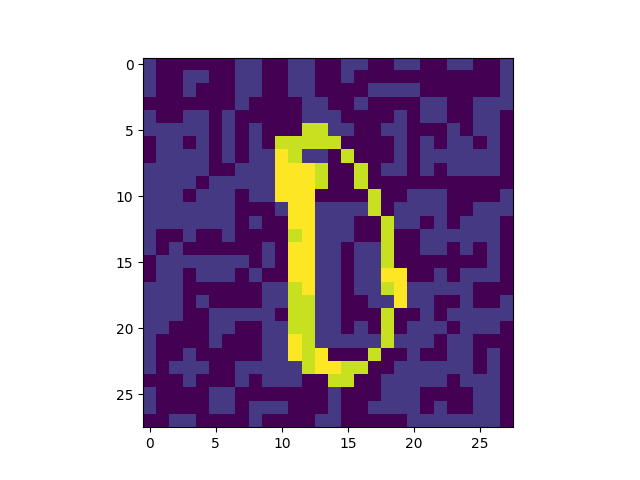
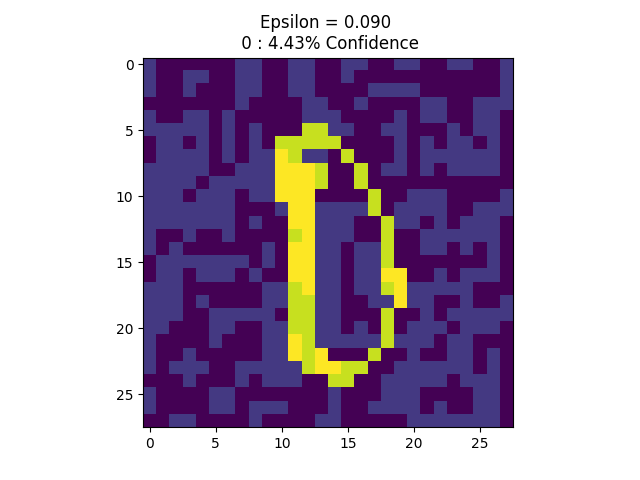
created streamlit app

Changed region(s): [[0.375, 0.0312, 0.6562, 0.125]]

diff --git a/src/app.py b/src/app.py
@@ -1,0 +1,100 @@
+import streamlit as st
+import numpy as np
+import pandas as pd
+import tensorflow as tf
+import matplotlib.pyplot as plt
+from PIL import Image
+import os
+
+
+st.markdown(
+    '''# Adversarial attacks and graph regularization
+
+Demonstration of adversarial attack on images from the MNIST dataset,
+and use of graph regularization to build models that are robust to such attacks.
+
+
+## Adversarial attack using Fast Gradient Sign Method (FGSM)
+
+FGSM can be used to create adversarial patterns or pertubations which can 
+combined with the original image to attain a visually similar image which
+is capable of tricking the model to misclassify the image.'''
+)
+
+
+original_mnist_image = Image.open(os.path.join('src','images','original_image.png'))
+perturbation_image = Image.open(os.path.join('src','images','perturbation.png'))
+final_image = Image.open(os.path.join('src','images','final_image.png'))
+
+col1, col2, col3 = st.columns(3)
+
+with col1:
+    st.image(original_mnist_image,caption="Original image")
+
+with col2:
+    st.image(perturbation_image,caption="Adversarial pattern")
+
+with col3:
+    st.image(final_image,caption="Final image")
+
+
+st.markdown("-----")
+st.markdown("## Misclassification on addition of adversarial pattern")
+
+img1 = Image.open(os.path.join('src','images','adv Epsilon = 0.010.png'))
+img2 = Image.open(os.path.join('src','images','adv Epsilon = 0.040.png'))
+img3 = Image.open(os.path.join('src','images','adv Epsilon = 0.050.png'))
+img4 = Image.open(os.path.join('src','images','adv Epsilon = 0.090.png'))
+img5 = Image.open(os.path.join('src','images','adv Epsilon = 0.150.png'))
+
+
+col1, col2, col3 = st.columns(3)
+
+with col1:
+    st.image(img1)
+    st.image(img4)
+
+with col2:
+    st.image(img2)
+    st.image(img5)
+
+with col3:
+    st.image(img3)
+
+
+st.markdown('''<hr style="border:2px solid gray">''',unsafe_allow_html=True)
+st.markdown('''
+    
+## Increasing robustness of CNN model using graph regularization
+---
+### Dataset
+---
+
+''')
+
+image1 = Image.open(os.path.join('src','images','img1.png'))
+image2 = Image.open(os.path.join('src','images','img2.png'))
+image3 = Image.open(os.path.join('src','images','img3.png'))
+image4 = Image.open(os.path.join('src','images','img4.png'))
+image5 = Image.open(os.path.join('src','images','img5.png'))
+image6 = Image.open(os.path.join('src','images','img6.png'))
+
+
+col1, col2, col3 = st.columns(3)
+
+with col1:
+    st.image(image1)
+    st.image(image4)
+
+with col2:
+    st.image(image2)
+    st.image(image5)
+
+with col3:
+    st.image(image3)
+    st.image(image6)
+
+st.markdown("---")
+st.markdown("### Comparison - Normal model vs graph regularized model")
+st.markdown("---")
+st.image(os.path.join('src','images','history.png'))

diff --git a/src/fgsm_attack.py b/src/fgsm_attack.py
@@ -15,7 +15,9 @@ def load_mnist_data():
     return (x_train, y_train), (x_test, y_test)
 
 def plot(image,label):
+  plt.figure()
   plt.imshow(tf.squeeze(image))
+  plt.savefig(os.path.join('src','images','perturbation.png'))
   print("label : ",label)
   plt.show()
 
@@ -112,7 +114,6 @@ def display_perturbation(i,X_test,y_test,model):
   label = tf.reshape(label, (1,10))
   perturbations = get_adversarial_pattern(image, label,model)
   plot(perturbations[0] * 0.5 + 0.5,y_test[index])
-  plt.savefig(os.path.join('src','images','perturbation.png'))
   return perturbations,i,image,label
 
 
@@ -121,8 +122,8 @@ def display_image(image,label,desc,model):
   confidence = pred[0][label]
   plt.figure()
   plt.imshow(tf.squeeze(image[0]*0.5+0.5))
-  plt.savefig(os.path.join('src','images','adv {}.png'.format(desc)))
   plt.title('{} \n {} : {:.2f}% Confidence'.format(desc,label, confidence*100))
+  plt.savefig(os.path.join('src','images','adv {}.png'.format(desc)))
   plt.show()
 
 

diff --git a/README.md b/README.md
@@ -1,17 +1,4 @@
-create env
+# Adversarial attacks and graph regularization
 
-```bash
-conda create -n gnn python=3.7 -y
-```
-
-activate env
-
-```bash
-conda activate gnn
-```
-
-install the requirements
-
-```bash
-pip install -r requirements.txt
-```
+Demonstration of adversarial attack on images from the MNIST dataset,
+and use of graph regularization to build models that are robust to such attacks.
